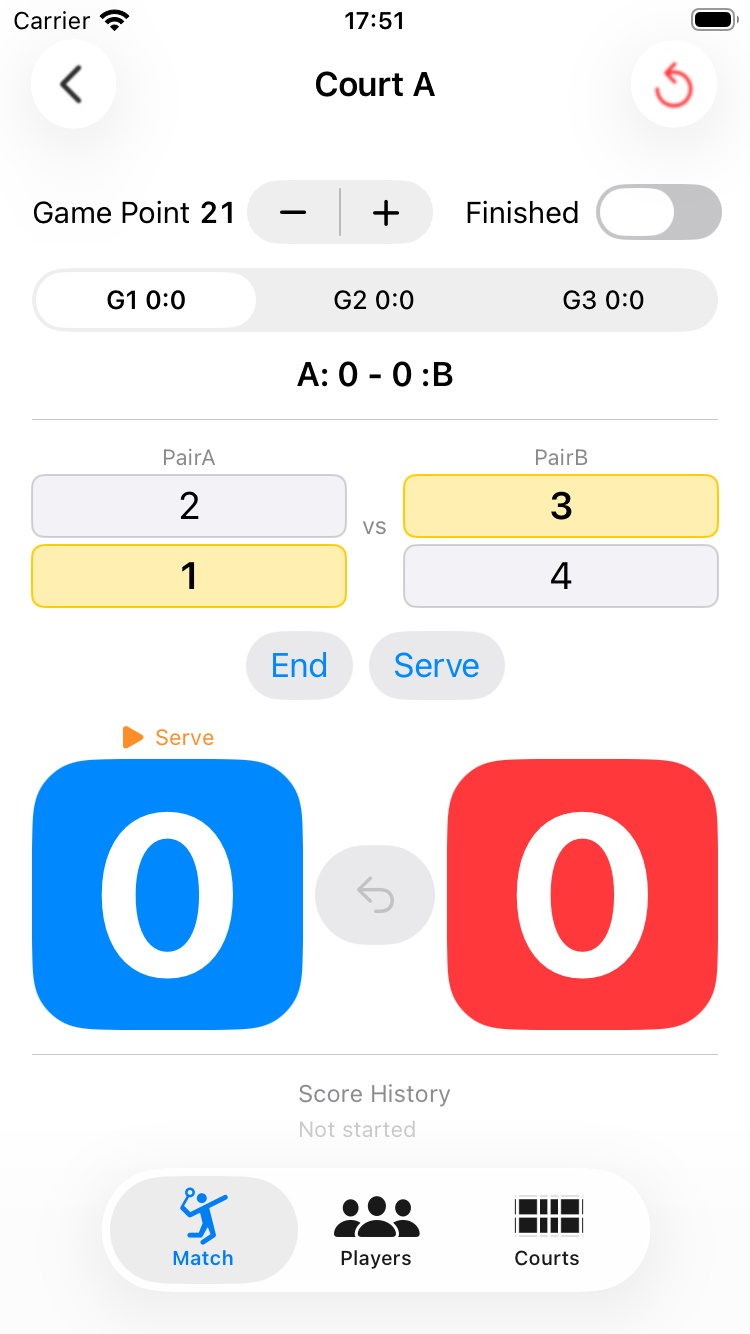
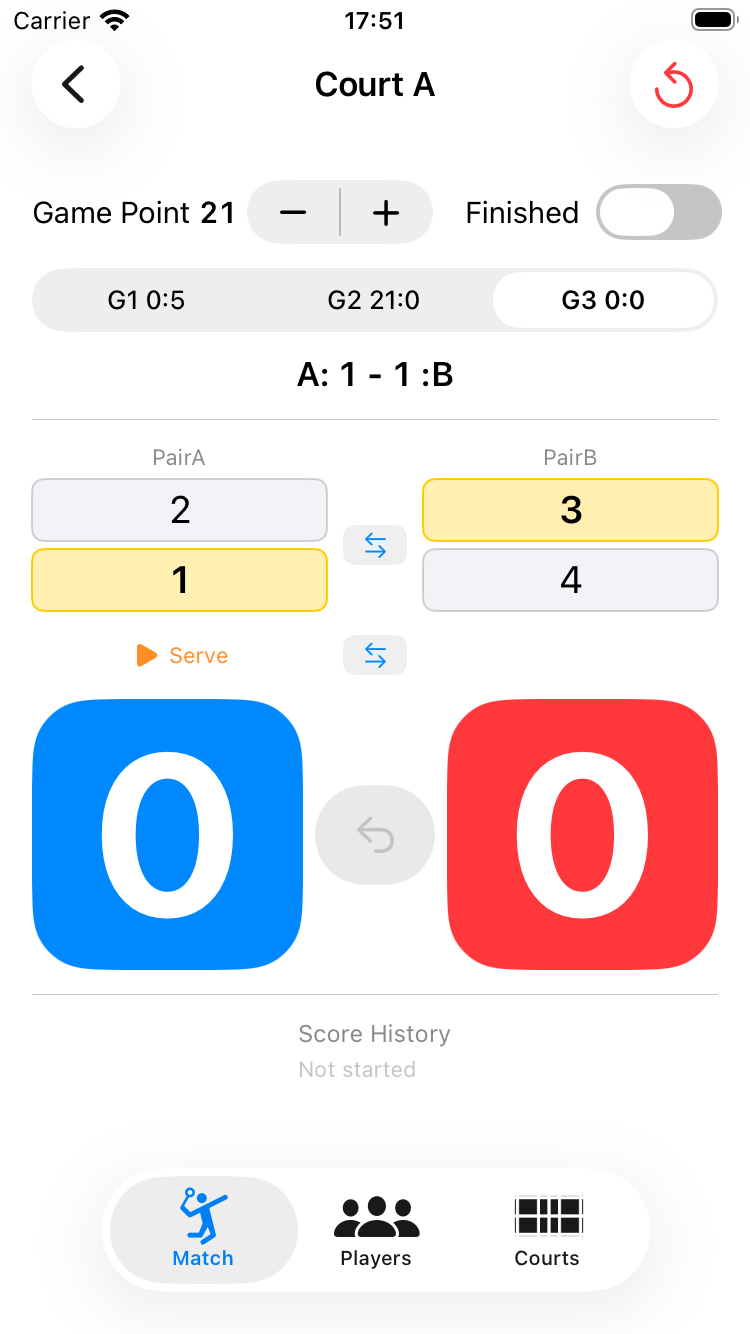
スコア入力画面のEnd/Serveボタン変更をヘルプに反映

diff --git a/game-tab.html b/game-tab.html
@@ -85,7 +85,7 @@
 <div class="tip">💡 プレイヤーごと最初からやり直したい場合は、Players タブの「プレイヤーのリセット」をご利用ください。</div>
 
 <h2 id="score-input">4. スコア入力</h2>
-<p>Match タブの試合行をタップすると、スコア入力画面が開きます。画面は上から順に、<code>Game Point</code>（勝利に必要な得点）の設定と <code>Finished</code>（終了）トグル、そのコートで何ゲーム目かを切り替える <code>G1 / G2 / G3</code> ピッカーとここまでの勝ちゲーム数（<code>A: 0 - 0 :B</code>）、プレイヤー表示、<code>End</code> / <code>Serve</code> ボタン、得点ボタンという構成です。勝ちゲーム数とゲームピッカーのスコアは、常に <strong>PairA:PairB</strong> の順で固定表示され、後述のエンドチェンジを行っても入れ替わりません。</p>
+<p>Match タブの試合行をタップすると、スコア入力画面が開きます。画面は上から順に、<code>Game Point</code>（勝利に必要な得点）の設定と <code>Finished</code>（終了）トグル、そのコートで何ゲーム目かを切り替える <code>G1 / G2 / G3</code> ピッカーとここまでの勝ちゲーム数（<code>A: 0 - 0 :B</code>）、プレイヤー表示、得点ボタンという構成です。勝ちゲーム数とゲームピッカーのスコアは、常に <strong>PairA:PairB</strong> の順で固定表示され、後述のエンドチェンジを行っても入れ替わりません。</p>
 <p>プレイヤー表示には、それぞれ <strong>PairA</strong> / <strong>PairB</strong>（内部の pairA・pairB に対応）のラベルが付きます。こちらはエンドチェンジで実際の左右位置が入れ替わると、表示も一緒に切り替わります。</p>
 <div class="ss"><img src="images/score-main.png" alt="スコア入力画面"></div>
 
@@ -122,10 +122,10 @@
 <div class="tip">💡 次のゲームが既に開始されている場合（得点が入っている場合）は上書きされません。</div>
 
 <h3 id="end-change">エンドチェンジ</h3>
-<p><code>End</code>（エンド）ボタンをタップすると、左右のペアが入れ替わります（エンドチェンジ）。<strong>PairA</strong> / <strong>PairB</strong> のラベルや得点ボタンの表示も、実際にどちらの位置にいるかに合わせて自動的に入れ替わります。スコア履歴のドットも自動で反転します。</p>
+<p>プレイヤー表示の <strong>PairA</strong> / <strong>PairB</strong> の間にある <code>⇆</code> ボタン（旧 <code>End</code> ボタン）をタップすると、左右のペアが入れ替わります（エンドチェンジ）。<strong>PairA</strong> / <strong>PairB</strong> のラベルや得点ボタンの表示も、実際にどちらの位置にいるかに合わせて自動的に入れ替わります。スコア履歴のドットも自動で反転します。</p>
 
 <h3 id="serve">サーブ権を変更する</h3>
-<p>ゲーム開始前（まだ得点が入っていない状態）に限り、<code>Serve</code>（サーブ）ボタンでサービス権チームを入れ替えられます。また、プレイヤー名をタップすると、同ペア内でサーバーとレシーバーを入れ替えられます。</p>
+<p>得点ボタンの間・「Serve」表示と同じ行にある <code>⇆</code> ボタン（旧 <code>Serve</code> ボタン）で、ゲーム開始前（まだ得点が入っていない状態）に限りサービス権チームを入れ替えられます。また、プレイヤー名をタップすると、同ペア内でサーバーとレシーバーを入れ替えられます。</p>
 
 <h3 id="reset-score">スコアをリセットする</h3>
 <p>画面右上の <code>↩</code> アイコンから、そのゲームのスコアをリセットできます。</p>

diff --git a/home.html b/home.html
@@ -65,6 +65,7 @@
   <li>プレイヤータブの試合数の表示を「G」から「M」（Match）に変更。スコア画面の「G1/G2/G3」（1試合の中の1ゲーム）と意味が紛らわしかったため</li>
   <li>スコア入力画面に「Game Point」（1ゲームの勝利に必要な得点）の設定を追加。デフォルト21点で、公式ルール通り20点オールで2点差勝ち・29点オールで30点目の1点勝ち抜けとなる自動判定に対応し、勝敗が決まると「Finished」トグルが自動的にオンになるように変更</li>
   <li>G1・G2 が終了すると、次のゲーム（G2・G3）のエンド（前のゲームと逆側）とサーブ権（前のゲームの勝者側）を自動的に設定するように変更</li>
+  <li>スコア入力画面の「End」「Serve」ボタンを廃止し、それぞれプレイヤー表示の間・得点ボタンの間の小さな <code>⇆</code> ボタンに変更</li>
 </ul>
 
 <h2>フィードバック</h2>

diff --git a/index.html b/index.html
@@ -65,6 +65,7 @@
   <li>プレイヤータブの試合数の表示を「G」から「M」（Match）に変更。スコア画面の「G1/G2/G3」（1試合の中の1ゲーム）と意味が紛らわしかったため</li>
   <li>スコア入力画面に「Game Point」（1ゲームの勝利に必要な得点）の設定を追加。デフォルト21点で、公式ルール通り20点オールで2点差勝ち・29点オールで30点目の1点勝ち抜けとなる自動判定に対応し、勝敗が決まると「Finished」トグルが自動的にオンになるように変更</li>
   <li>G1・G2 が終了すると、次のゲーム（G2・G3）のエンド（前のゲームと逆側）とサーブ権（前のゲームの勝者側）を自動的に設定するように変更</li>
+  <li>スコア入力画面の「End」「Serve」ボタンを廃止し、それぞれプレイヤー表示の間・得点ボタンの間の小さな <code>⇆</code> ボタンに変更</li>
 </ul>
 
 <h2>フィードバック</h2>

diff --git a/update-history.html b/update-history.html
@@ -23,6 +23,7 @@
   <li>プレイヤータブの試合数の表示を「G」から「M」（Match）に変更。スコア画面の「G1/G2/G3」（1試合の中の1ゲーム）と意味が紛らわしかったため</li>
   <li>スコア入力画面に「Game Point」（1ゲームの勝利に必要な得点）の設定を追加。デフォルト21点で、公式ルール通り20点オールで2点差勝ち・29点オールで30点目の1点勝ち抜けとなる自動判定に対応し、勝敗が決まると「Finished」トグルが自動的にオンになるように変更</li>
   <li>G1・G2 が終了すると、次のゲーム（G2・G3）のエンド（前のゲームと逆側）とサーブ権（前のゲームの勝者側）を自動的に設定するように変更</li>
+  <li>スコア入力画面の「End」「Serve」ボタンを廃止し、それぞれプレイヤー表示の間・得点ボタンの間の小さな <code>⇆</code> ボタンに変更</li>
 </ul>
 
 <h2>v1.21.0</h2>
